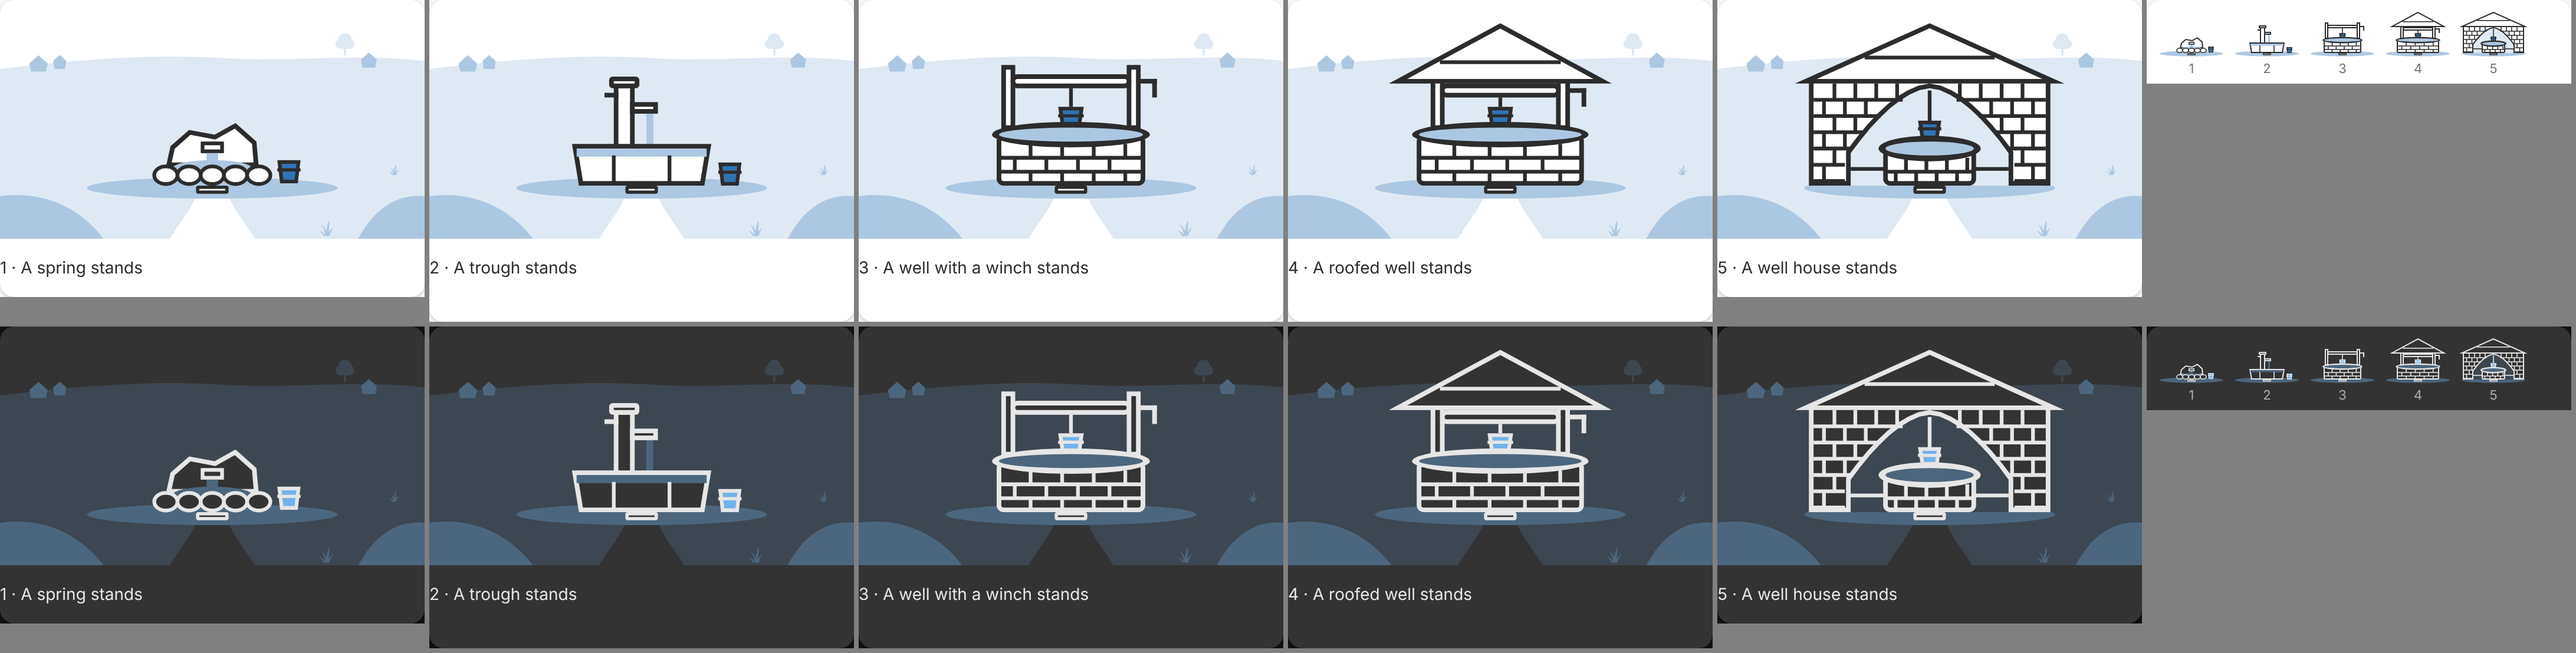
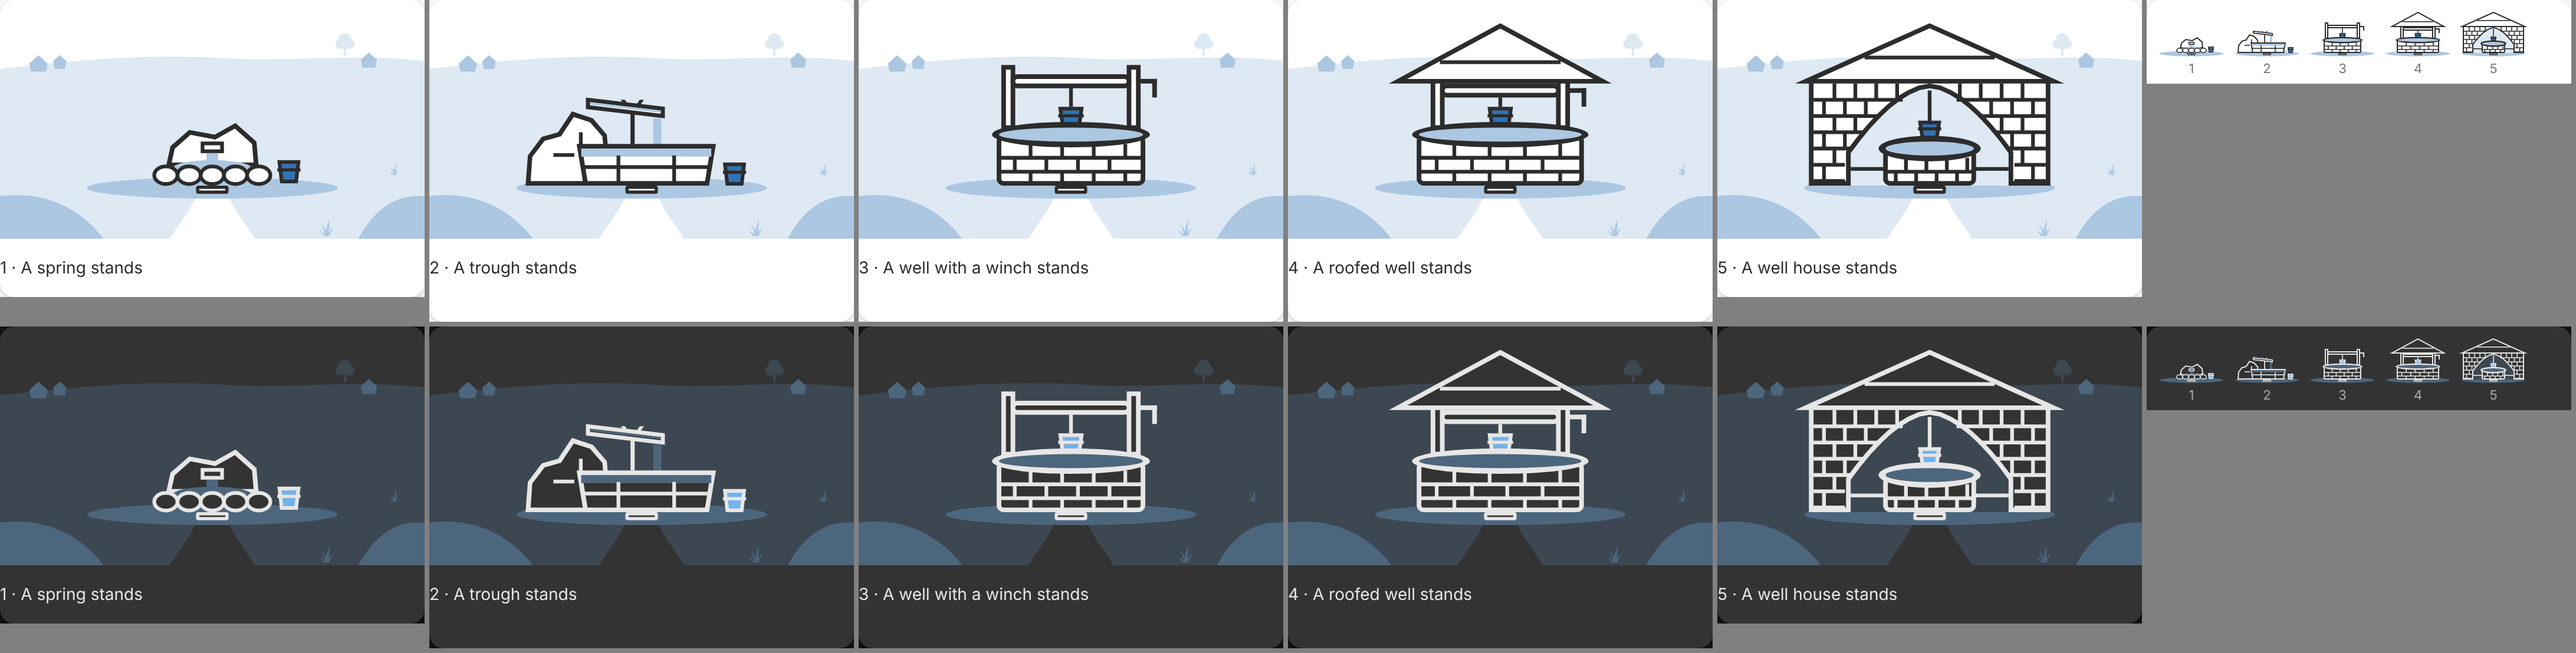
Art: Well's trough is fed by the spring, not a pump (#128)
The owner found version 2 too advanced: a pump comes after a dug well,
so the well with a winch read as a step back. The trough is now fed from
the spring's rock by a wooden channel on a forked post, so the row climbs
from spring to trough to well, roofed well and well house.

Claude-Session: https://claude.ai/code/session_019PsDpCdRYaLb9552fVk121

diff --git a/docs/log.md b/docs/log.md
@@ -2,7 +2,7 @@
 
 ## 2026-11-15
 
-- **Creation** (#128, Well): the ladder Well, drawn by `scripts/draw-ladders.mjs`: a spring from a rock into a basin of stones, a trough under a pump, a round well with a winch, the well under a roof, a stone well house with the well under its arch; each whole and larger than the one before, on Home's threshold stone. Water in the builds is `tint-strong`; the accent is the bucket. Its land setting `setting-green` (a village green: a far ridge with roofs, no water) shares Home's path and marker posts; default marker lanterns, default hue water blue; titles in English and German. Checked at 360 × 720 and in the row at 60 × 40, light and dark: the spring's rock first read as a hut and is now a low, broken outcrop; the well wall read as a crate and now has a round rim around its water. The fifth version was first a fountain; the owner rejected it (a fountain is another use than a well), so it is a well house: a closed house with a door read as a second Home house and a low arch as a garage, so its arch is tall and wide; the owner then saw the well standing in front of the house, so it is smaller, set back on the floor of a shaded arch, and the front wall is drawn over it with the arch cut out; then the owner found the stones no longer read as stones, so every stone wall (the well in versions 3 to 5, the well house's whole front wall, whose courses stop at the arch's curve) is drawn as courses of stones with staggered joints (`masonry`) ([journey design](journey-design.md#builds-and-ladders-the-valley-42), `docs/screenshots/ladder-well*.png`). Lookout follows after the owner's judgement.
+- **Creation** (#128, Well): the ladder Well, drawn by `scripts/draw-ladders.mjs`: a spring from a rock into a basin of stones, a trough fed by the spring through a wooden channel, a round well with a winch, the well under a roof, a stone well house with the well under its arch; each whole and larger than the one before, on Home's threshold stone. Water in the builds is `tint-strong`; the accent is the bucket. Its land setting `setting-green` (a village green: a far ridge with roofs, no water) shares Home's path and marker posts; default marker lanterns, default hue water blue; titles in English and German. Checked at 360 × 720 and in the row at 60 × 40, light and dark: the spring's rock first read as a hut and is now a low, broken outcrop; the well wall read as a crate and now has a round rim around its water. The fifth version was first a fountain; the owner rejected it (a fountain is another use than a well), so it is a well house: a closed house with a door read as a second Home house and a low arch as a garage, so its arch is tall and wide; the owner then saw the well standing in front of the house, so it is smaller, set back on the floor of a shaded arch, and the front wall is drawn over it with the arch cut out; then the owner found the stones no longer read as stones, so every stone wall (the well in versions 3 to 5, the well house's whole front wall, whose courses stop at the arch's curve) is drawn as courses of stones with staggered joints (`masonry`); last, the owner found version 2 too advanced (a pump comes after a dug well, so version 3 read as a step back): the trough is now fed from the spring's rock by a wooden channel on a forked post ([journey design](journey-design.md#builds-and-ladders-the-valley-42), `docs/screenshots/ladder-well*.png`). Lookout follows after the owner's judgement.
 - **Creation** (#128, Garden): the ladder Garden, drawn by `scripts/draw-ladders.mjs`: a garden bed with a sunflower, a garden in rows, a garden with a hedge and a fruit tree, a greenhouse, an orchard around the greenhouse; each whole and larger than the one before, on the same threshold stone as Home. Its land setting `setting-field` (open fields, low hills, no water) shares Home's path to the threshold and marker posts (`sides`); default marker flowers, default hue moss; titles in English and German. The engine's list of ladders reads `garden.ladder.json` (no rule changed). Checked at 360 × 720 and in the row of versions at 60 × 40, light and dark, over three rounds: the bean poles were dropped as noise, the hedge became a row of round bushes instead of a box, plants rise further above their beds, the greenhouse stands on a low wall that hides its plants' feet, and the trees of the greenhouse and the orchard stand behind the hedge so their trunks do not read as posts ([journey design](journey-design.md#builds-and-ladders-the-valley-42), `docs/screenshots/ladder-garden*.png`). Well and Lookout follow after the owner's judgement.
 
 ## 2026-11-14

diff --git a/docs/journey-design.md b/docs/journey-design.md
@@ -166,7 +166,7 @@ journey):
    storeys. Garden is one raised bed with a sunflower, two rows of beds,
    the rows before a hedge with a fruit tree, a greenhouse between hedges
    and trees, an orchard of five fruit trees around the greenhouse. Well
-   is a spring from a rock into a basin of stones, a trough under a pump,
+   is a spring from a rock into a basin of stones, a trough fed by the spring through a wooden channel,
    a round well with a winch, the well under a roof, a stone well
    house with the well inside, under its arch (owner: a fountain is another use,
    not a well).
